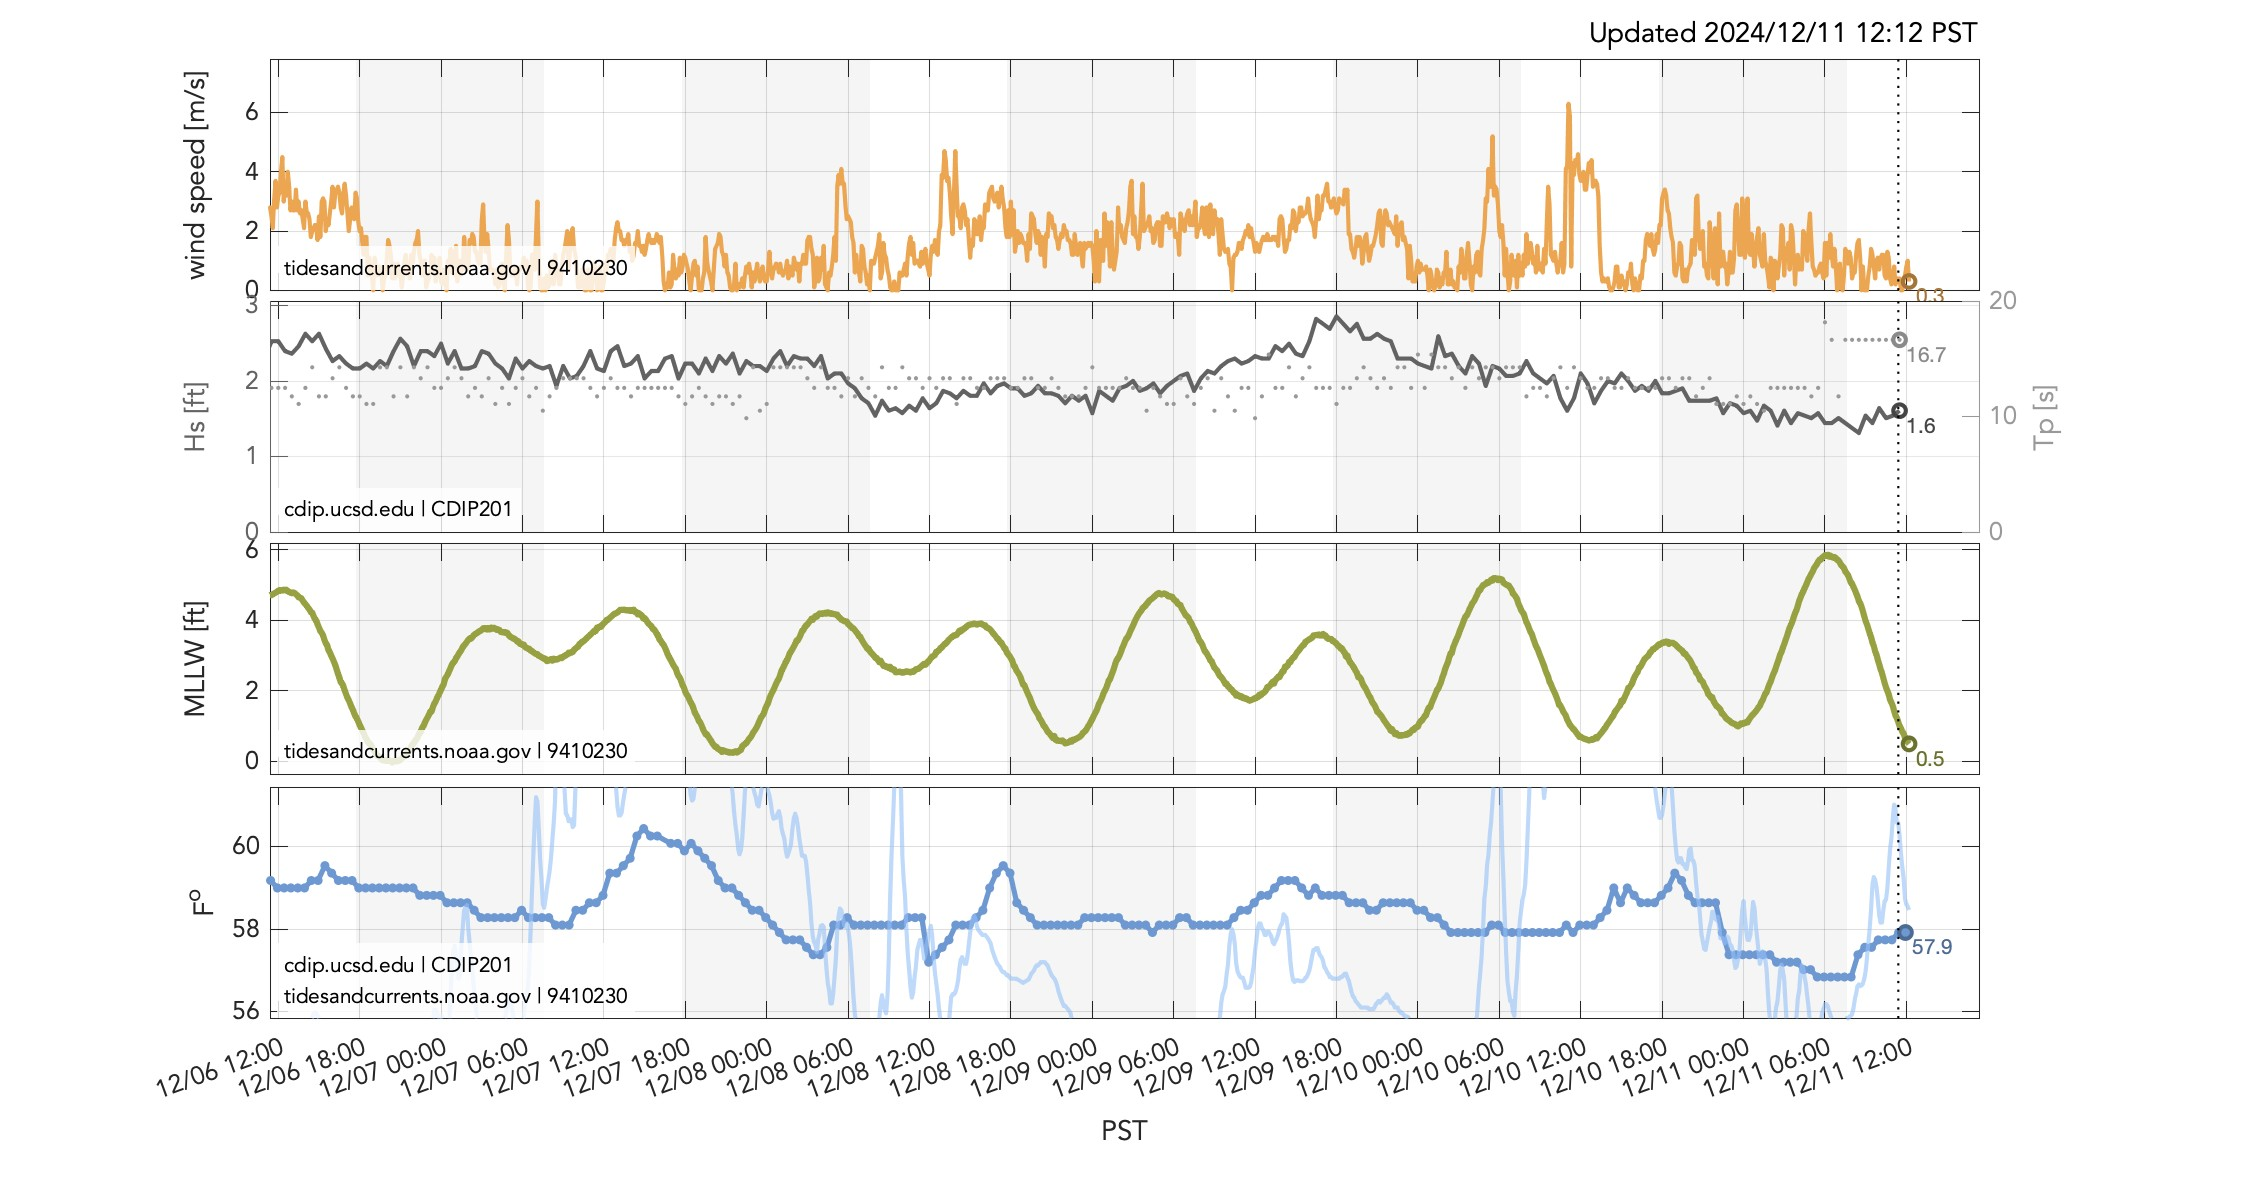
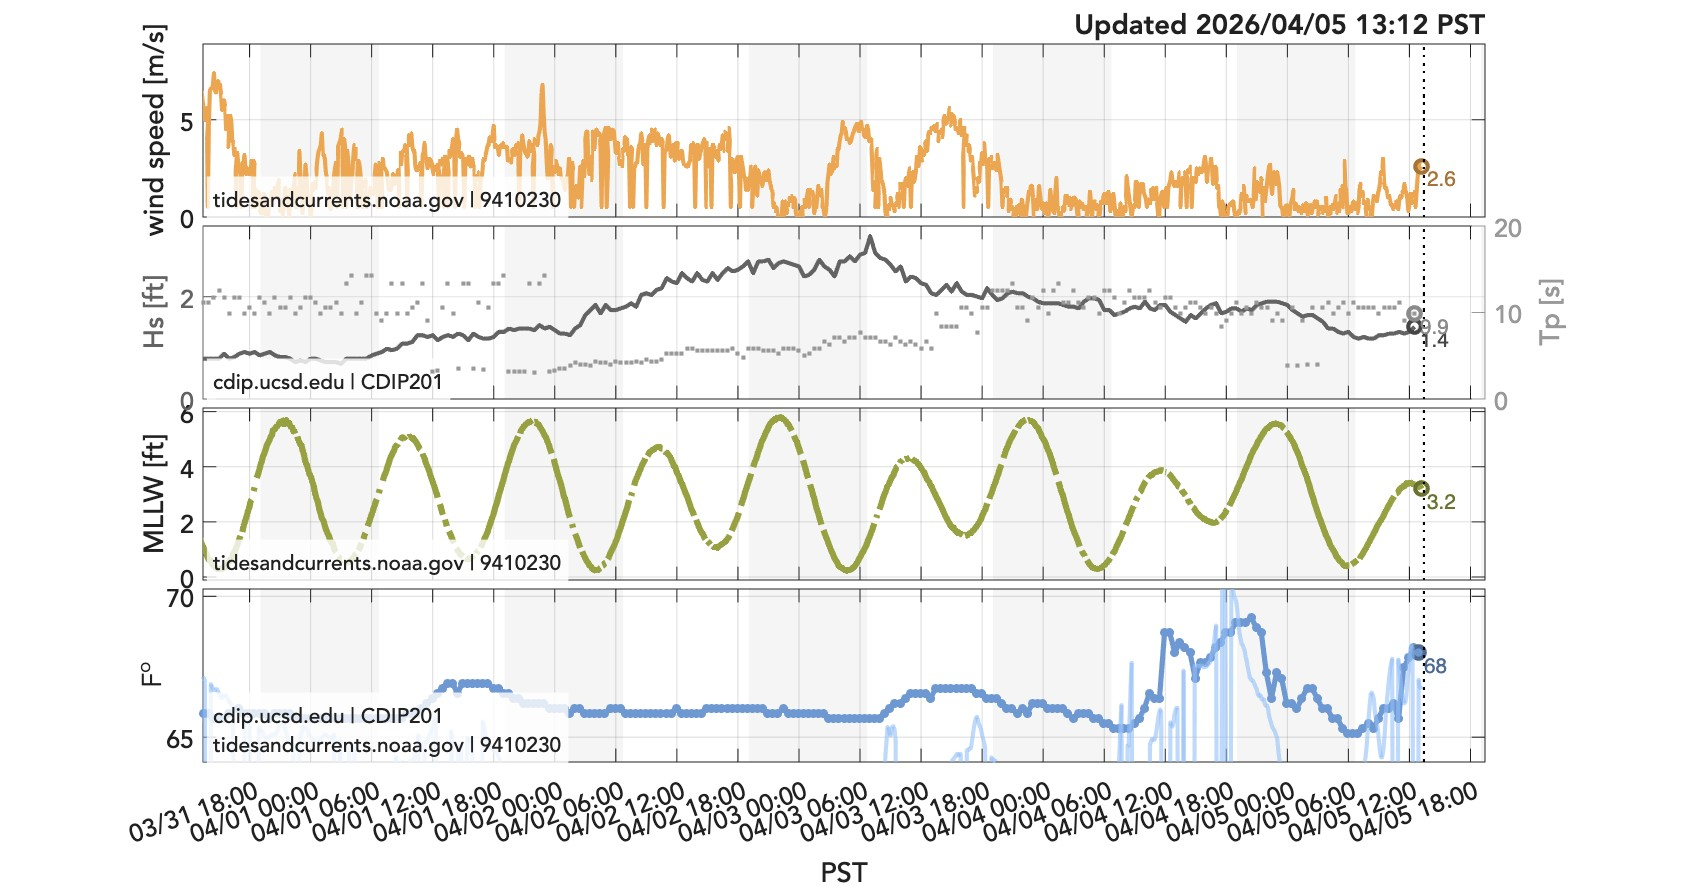
editing dload_spec

diff --git a/howsthewater.m b/howsthewater.m
@@ -8,21 +8,20 @@ tmzone = 7/24;
 fpath = pwd;
 fpath = strsplit(fpath, '/');
 upath = ['/' fpath{2} '/' fpath{3} '/'];
-if contains(upath, 'j')
+if contains(upath, 'j') % JPL
     ljpath = 'Documents/misc/lajolla_info/';
     wpath = 'Documents/myrepos/gitwebsite/howsthewater/';
-    % addpath(genpath(''))
 else
-    ljpath = 'Documents/SIO/misc_projects/';
-    wpath = 'Documents/gitwebsite/howsthewater/';
-    % addpath(genpath([upath 'Documents/SIO/gitsio/code_universal/dload_cdip_v3']))
-    addpath(genpath([upath 'Documents/SIO/gitsio/dload_cdip']))
-    addpath(genpath([upath 'Documents/SIO/gitsio/dload_ndbc']))
-    addpath(genpath([upath 'Documents/SIO/gitsio/code_universal/fxnout']))
-    addpath(genpath([upath 'Documents/SIO/gitsio/code_universal/plotfxns']))
-    addpath([upath 'Documents/SIO/misc_projects/john/code/tracingwaves/'])
+    if exist([upath 'Documents/myrepos/']) % NEW computer
+        ljpath = 'Documents/misc/lajolla_info/';
+        wpath = 'Documents/myrepos/gitwebsite/howsthewater/';
+        addpath([upath 'Documents/myrepos/tracingwaves/'])
+    else % OLD UCSD computer
+        ljpath = 'Documents/SIO/misc_projects/';
+        wpath = 'Documents/gitwebsite/howsthewater/';
+        addpath([upath 'Documents/SIO/misc_projects/john/code/tracingwaves/'])
+    end
 end
-
 
 
 
@@ -154,7 +153,7 @@ thisha = ha(3); axes(thisha); hold on;
 
 col = [154, 163, 67]./258;
 % yyaxis left; set(gca, 'YColor', col)
-t = noaa.time-tmzone; var = noaa.waterlevel;
+t = noaa.time-tmzone; var = noaa.waterlevel; var(var==1) = NaN;
 plot(t, var, 'g-', 'Color', col, 'LineWidth',3)
 plot(t(end), var(end), 'o', 'Color', col*0.7, 'LineWidth',2)
 text(t(end)+0.5/24, var(end), num2str(round(var(end),1)), 'Color', col*0.7, ...
